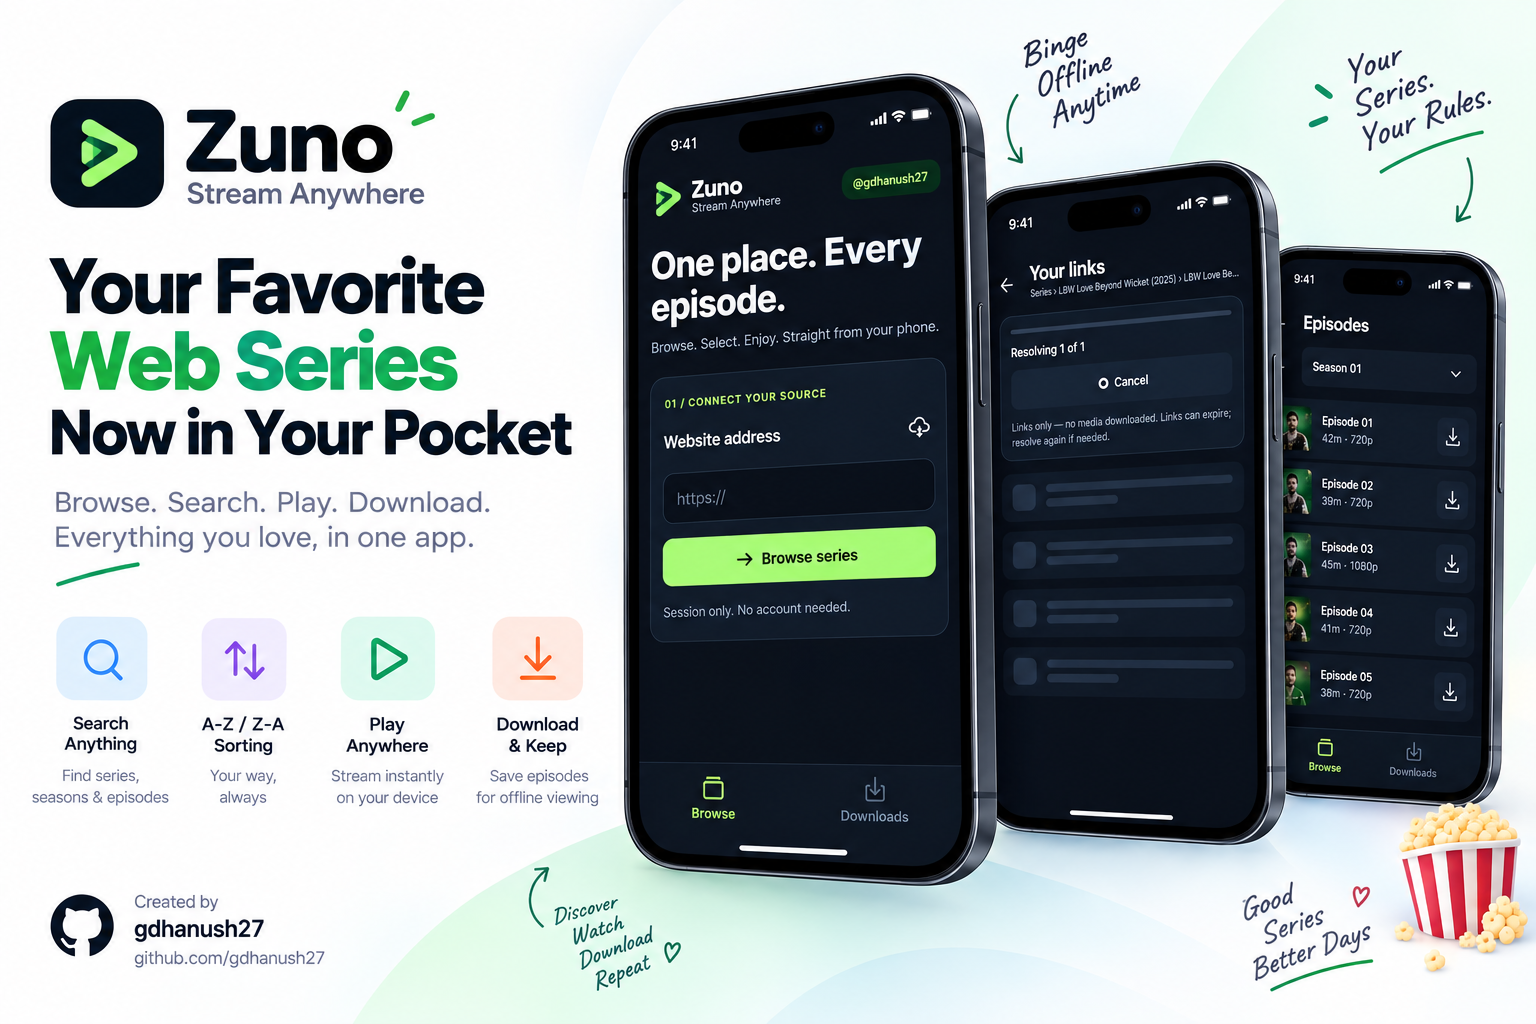
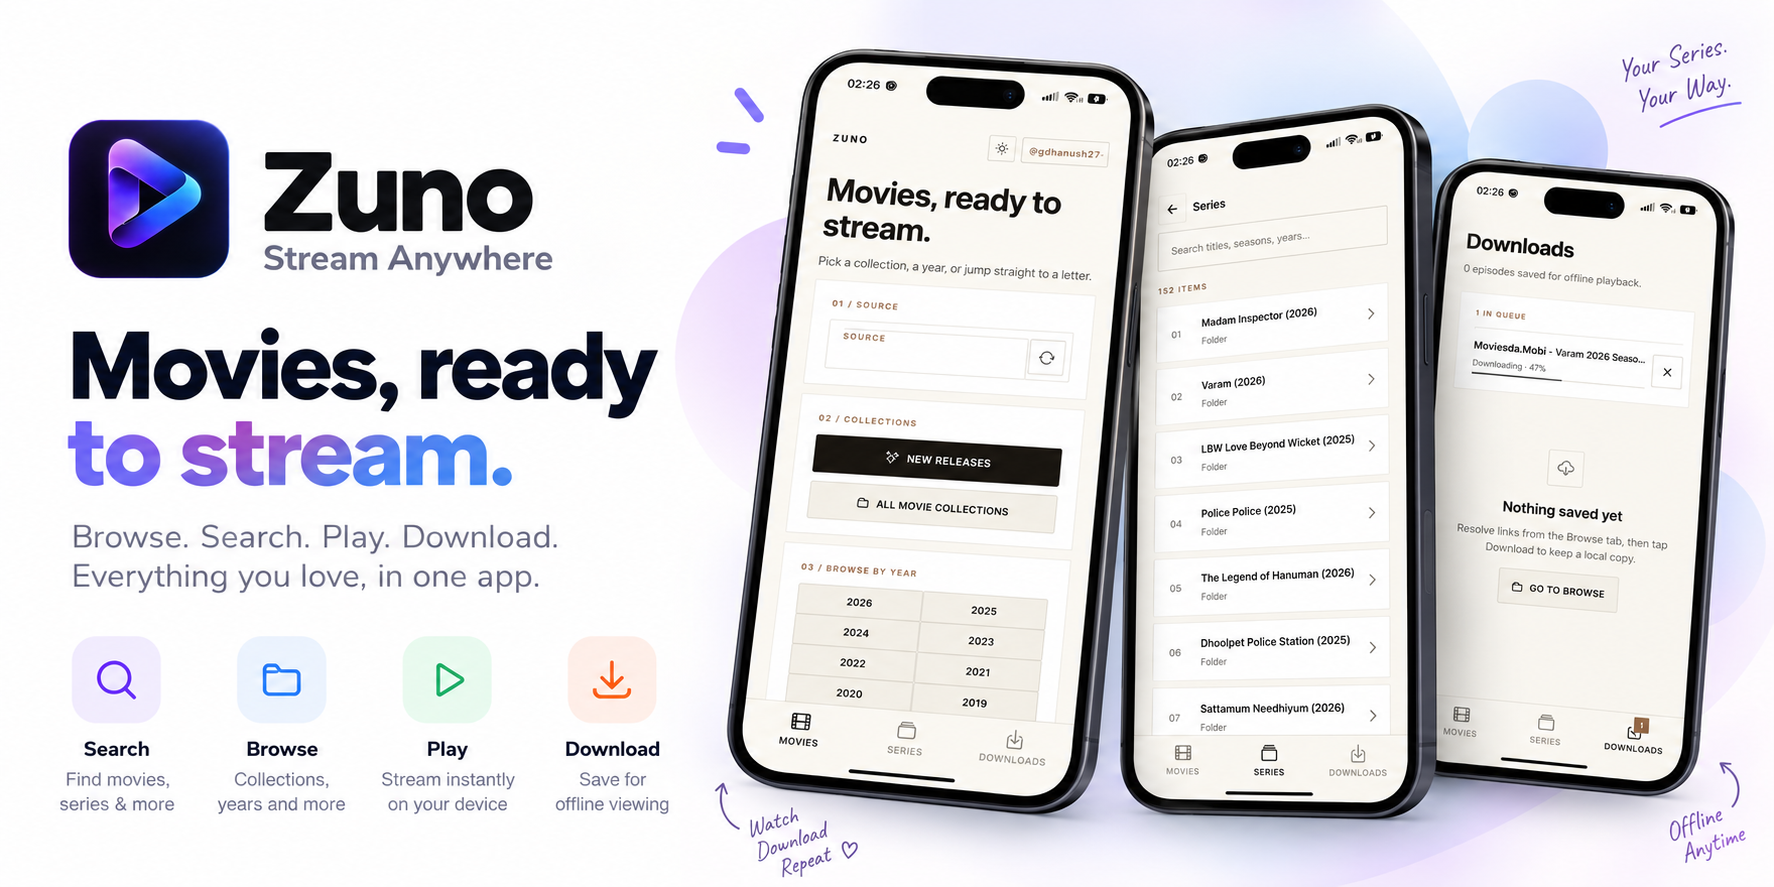
feat: update README and assets for v0.1 release, adding movie support and new images

diff --git a/README.md b/README.md
@@ -4,13 +4,16 @@
   <img src="./assets/docs/readme_hero.png" alt="Zuno — Stream Anywhere" width="100%" />
 </p>
 
-Your series, your phone, your rules. Zuno finds episodes, lines them up, and keeps your favourites ready to watch even when the signal drops.
+Your series and movies, your phone, your rules. Zuno finds episodes and films, lines them up, and keeps your favourites ready to watch even when the signal drops.
 
 No accounts. No clutter. Just search, tap, and press play.
 
+> **v0.1 — first stable release, out of beta.** Ships a refreshed identity, Expo SDK 58 / React Native 0.88, and full movie support alongside series.
+
 ## Why you'll like it
 
-- **Find it fast** — search across catalogs, series, and seasons with smart A-Z sorting.
+- **Movies and series in one place** — browse both catalogs side by side from dedicated tabs.
+- **Find it fast** — search across catalogs, series, seasons, and movies with smart A-Z sorting.
 - **Binge without breaks** — next and previous controls roll straight into the following episode.
 - **Watch offline** — saved episodes play from your device, no connection required.
 - **Pick up where you left off** — Zuno remembers your spot in every episode.
@@ -20,22 +23,22 @@ No accounts. No clutter. Just search, tap, and press play.
 
 <table>
   <tr>
-    <td align="center" width="33%"><img src="./assets/docs/home.png" alt="Home" width="100%" /></td>
-    <td align="center" width="33%"><img src="./assets/docs/link_fetching.png" alt="Link fetching" width="100%" /></td>
-    <td align="center" width="33%"><img src="./assets/docs/player.png" alt="Player" width="100%" /></td>
+    <td align="center" width="33%"><img src="./assets/docs/movie_home.png" alt="Movies" width="100%" /></td>
+    <td align="center" width="33%"><img src="./assets/docs/series_search.png" alt="Series search" width="100%" /></td>
+    <td align="center" width="33%"><img src="./assets/docs/downloads.png" alt="Downloads" width="100%" /></td>
   </tr>
   <tr>
-    <td align="center">Home</td>
-    <td align="center">Link fetching</td>
-    <td align="center">Player</td>
+    <td align="center">Movies</td>
+    <td align="center">Series search</td>
+    <td align="center">Downloads</td>
   </tr>
 </table>
 
 ## How it works
 
 1. Point Zuno at your source.
-2. Browse or search until something catches your eye.
-3. Tap the episodes you want.
+2. Pick **Movies** or **Series** and browse or search until something catches your eye.
+3. Tap the episodes or the film you want.
 4. Let Zuno fetch the links.
 5. Press play, or save them for the road.
 
@@ -52,11 +55,19 @@ Run it on Android:
 npm run android
 ```
 
+Run it on iOS (native build):
+
+```powershell
+npm run ios
+```
+
 Already have a development build installed?
 
 ```powershell
 npm run start:dev
 ```
+
+Runs on **Expo SDK 58** with React Native 0.88. The URL scheme is `zuno`, so deep links look like `zuno://...`.
 
 ## Good to know
 
@@ -65,6 +76,17 @@ npm run start:dev
 - Streaming links can expire. If one goes stale, Zuno simply fetches a fresh one.
 - Browsing history and search results reset when you close the app. Downloads stay put.
 - Please use Zuno only with content you have the right to access.
+
+## Release notes — v0.1
+
+First stable release after beta.
+
+- **New identity** — renamed to Zuno with a fresh icon, adaptive icon, favicon, and splash screen.
+- **Full movie support** — movies tab, results screen, dedicated player, persisted movie store, and a movie API client.
+- **Reworked home screen** and tab layout; refreshed downloads, series results, and player flows.
+- **Theme system** — new theme store and expanded design system, documented in [design.md](./design.md).
+- **Upgraded stack** — Expo SDK 58, React Native 0.88, React 19.3, and matching gesture-handler/reanimated/worklets majors.
+- **Tests** — added coverage for the movie API client.
 
 ## Before you ship
 
